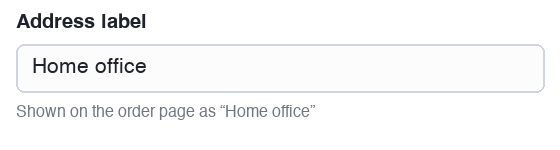
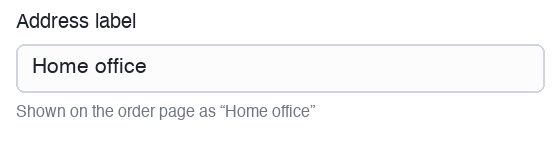
build-proof-page: retest is pass-only, scrolls on narrow screens, cleaner placeholders
Drop the free-text status (the pill and AFTER label are always green); a fix
that still fails belongs in rows with a figure. Wrap the before/after table
in a horizontal scroller for phones. Re-render placeholder crops without the
bold face that dropped the i-dot.

Changed region(s): [[0.0304, 0.08, 0.2732, 0.1867]]

diff --git a/skills/build-proof-page/scripts/build_proof_page.py b/skills/build-proof-page/scripts/build_proof_page.py
@@ -30,9 +30,10 @@ Spec (* = required):
 
 Fix retest (before/after) — add retest; title, lead, columns and rows may then be left out:
   retest        [{id*, title* (one line), sub* (environment, date, viewer/event timezones when they matter),
-                  status (default "QA passed"), comment (the one-line tracker comment that goes with the PNG),
+                  comment (the one-line tracker comment that goes with the PNG),
                   checks*: [{check*, before*, after*, before_image, after_image}]}]
                 before_image: crop of the original bug-report proof (red border); after_image: crop of the retest (green border)
+                for passed retests only; a fix that still fails is a ticket-test row with a figure
 
 Text is escaped; <strong>, <em>, <code>, <br> and <a href="http..."> are kept.
 """
@@ -195,6 +196,7 @@ BA_CSS = '''
 .ba .before .lbl{color:#cf222e}.ba .after .lbl{color:#1a7f37}
 .ba img{display:block;max-width:100%;max-height:230px;margin-top:8px;border-radius:6px}
 .ba .before img{border:2px solid #cf222e}.ba .after img{border:2px solid #1a7f37}
+.ba .scroll{overflow-x:auto}.ba .scroll table{min-width:720px}
 .ba .note{color:#59636e;font-size:13px;margin-top:12px}
 '''
 PNG_CSS = "*{box-sizing:border-box}body{margin:0;background:#fff}.ba{width:1100px;border-radius:0}"
@@ -220,9 +222,9 @@ def before_after(t, base):
     trs = "".join(f'<tr><td class="check">{rich(c["check"])}</td>{cell("before", "BEFORE", c)}{cell("after", "AFTER ✓", c)}</tr>'
                   for c in t["checks"])
     note = f'<p class="note">Comment: {rich(t["comment"])}</p>' if t.get("comment") else ""
-    return (f'<div class="ba" id="{html.escape(t["id"])}"><h1>{rich(t["id"])}: {rich(t["title"])}<span class="pass">{rich(t.get("status", "QA passed"))}</span></h1>'
-            f'<div class="sub">{rich(t["sub"])}</div><table><thead><tr><th>Check</th><th>Before</th><th>After</th></tr></thead>'
-            f'<tbody>{trs}</tbody></table>{note}</div>')
+    return (f'<div class="ba" id="{html.escape(t["id"])}"><h1>{rich(t["id"])}: {rich(t["title"])}<span class="pass">QA passed</span></h1>'
+            f'<div class="sub">{rich(t["sub"])}</div><div class="scroll"><table><thead><tr><th>Check</th><th>Before</th><th>After</th></tr></thead>'
+            f'<tbody>{trs}</tbody></table></div>{note}</div>')
 
 
 def chrome():
@@ -303,7 +305,7 @@ def build(spec, base):
     if retest and not rows:  # fix-retest only: a verdict line is all the header needs
         spec.setdefault("title", "Fix retest: " + ", ".join(t["id"] for t in retest))
         spec.setdefault("lead", f"<strong>{len(retest)} fix{'es' if len(retest) > 1 else ''} retested.</strong> "
-                        + " · ".join(f'{t["id"]}: {t.get("status", "QA passed")}' for t in retest))
+                        + " · ".join(f'{t["id"]}: QA passed' for t in retest))
     h = {"tickets": "Tickets", "rows": "Results", "retest": "Before / after", "figures": "Proof", "open": "Open items",
          **(spec.get("headings") or {})}
     parts, nav = [], [("summary", "Summary")]

diff --git a/skills/build-proof-page/SKILL.md b/skills/build-proof-page/SKILL.md
@@ -22,7 +22,7 @@ One light-theme page that answers, in this order: is it good, what was judged ag
 | Fix retest (before/after) | `retest`: Check, Before, After | check, per ticket | — (each check carries its own crops) | — |
 
    For a fix retest, fill `retest` (one entry per ticket; `rows` may be left out):
-   - **Header:** ticket id, one-line title, the "QA passed" pill (`status`).
+   - **Header:** ticket id, one-line title, the "QA passed" pill. Passed retests only: a fix that still fails goes in `rows` with a figure.
    - **`sub`:** environment, date, and the viewer and event timezones when they matter.
    - **Before:** the bug in red. Reuse the earlier bug-report proof image as `before_image` when one exists; otherwise text only.
    - **After:** the retest in green, with a crop of the retest screenshot as `after_image`.
